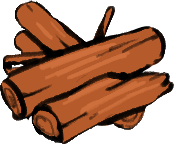
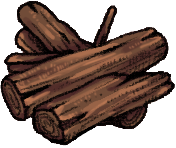
Add multiple logs

diff --git a/Assets/Scripts/PieceSpawner.cs b/Assets/Scripts/PieceSpawner.cs
@@ -7,12 +7,12 @@ public class PieceSpawner : MonoBehaviour {
     public AudioSource mainGameAudio;
 
     private Ossan[] allOssan;
-    private Wood theWood;
+    private Wood[] theWoods;
 
     void Awake()
     {
         allOssan = set.ossan;
-        theWood = set.wood;
+        theWoods = set.woods;
         SortInPlaceRandom(spawnOrder);
     }
 
@@ -36,7 +36,7 @@ public class PieceSpawner : MonoBehaviour {
             ossanSinceLastWood++;
             if (ossanSinceLastWood >= 4)
             {
-                SpawnPiece(theWood);
+                SpawnPiece(theWoods[Random.Range(0, theWoods.Length)]);
                 ossanSinceLastWood = 0;
             }
             yield return new WaitForSeconds(Random.Range(3f, 5f));

diff --git a/Assets/Scripts/Ossan.cs b/Assets/Scripts/Ossan.cs
@@ -138,7 +138,7 @@ public class Ossan : DragablePiece {
     }
 
     private float timeSinceLastShiver = 0;
-    private const float SHIVER_INTERVAL = 4;
+    private const float SHIVER_INTERVAL = 3;
     private void Update()
     {
         if (!Rested)

diff --git a/Assets/Scripts/PieceSet.cs b/Assets/Scripts/PieceSet.cs
@@ -2,5 +2,5 @@
 
 public class PieceSet : ScriptableObject {
     public Ossan[] ossan;
-    public Wood wood;
+    public Wood[] woods;
 }
